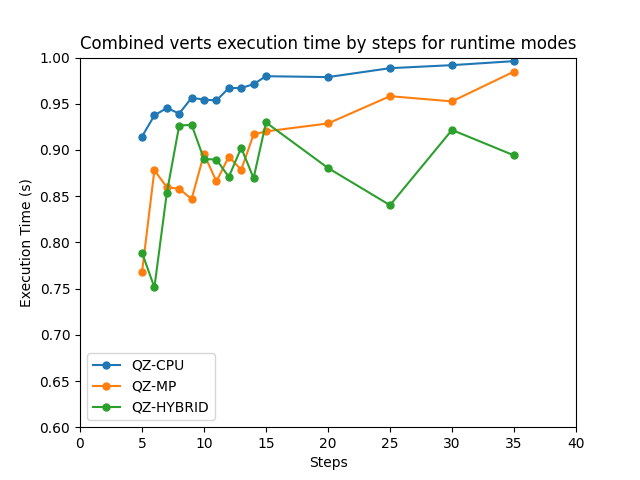
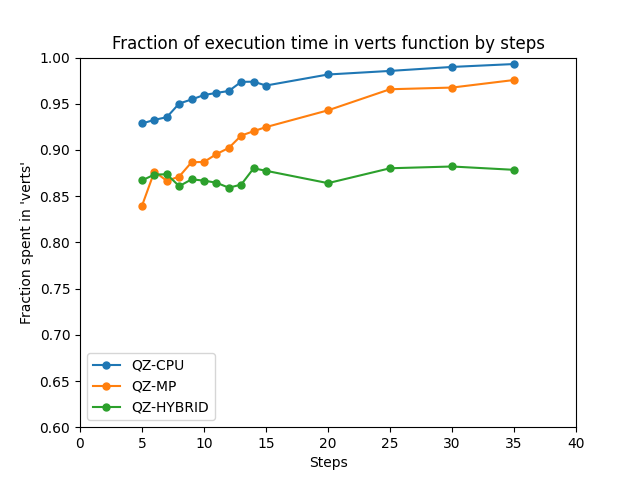
std graphs

diff --git a/reachability/scripts/profiler_unified.py b/reachability/scripts/profiler_unified.py
@@ -34,9 +34,10 @@ full_mode_results_std = [[] for _ in range(len(all_modes))]
 verts_mode_results_std = [[] for _ in range(len(all_modes))]
 
 
-trials_per_stepsmode = 15
+trials_per_stepsmode = 75
 full_maxtime = 0
 verts_maxtime = 0
+std_maxtime = 0
 for steps in steps_list:
     dt = 1
     ttime = steps
@@ -60,12 +61,15 @@ for steps in steps_list:
         full_mode_results_std[num].append(np.std(full_steps_results))
         verts_mode_results_std[num].append(np.std(verts_steps_results))
 
+for mode in full_mode_results_std:
+    std_maxtime = max(max(mode), std_maxtime)
+
 
 
 plt.title("Combined execution time by steps for runtime modes")
 plt.ylabel("Execution Time (s)")
 plt.xlabel("Steps")
-for results, name in zip(full_mode_results_avg, all_modes_names_avg):
+for results, name in zip(full_mode_results_avg, all_modes_names):
     plt.plot(steps_list, results, marker='o', markersize='5', linestyle='solid', label=name)
 plt.axis([
     0, max_steps,
@@ -79,11 +83,11 @@ plt.clf()
 plt.title("Standard Deviation between trial execution time by steps for runtime modes")
 plt.ylabel("Standard Deviation (s)")
 plt.xlabel("Steps")
-for results, name in zip(full_mode_results_std, all_modes_names_std):
+for results, name in zip(full_mode_results_std, all_modes_names):
     plt.plot(steps_list, results, marker='o', markersize='5', linestyle='solid', label=name)
 plt.axis([
     0, max_steps,
-    0, full_maxtime
+    0, std_maxtime
 ])
 
 plt.legend(loc='best')
@@ -94,7 +98,7 @@ plt.clf()
 plt.title("Fraction of execution time in verts function by steps")
 plt.ylabel("Fraction spent in 'verts'")
 plt.xlabel("Steps")
-for results, name in zip(verts_mode_results, all_modes_names):
+for results, name in zip(verts_mode_results_avg, all_modes_names):
     plt.plot(steps_list, results, marker='o', markersize='5', linestyle='solid', label=name)
 plt.axis([
     0, max_steps,
